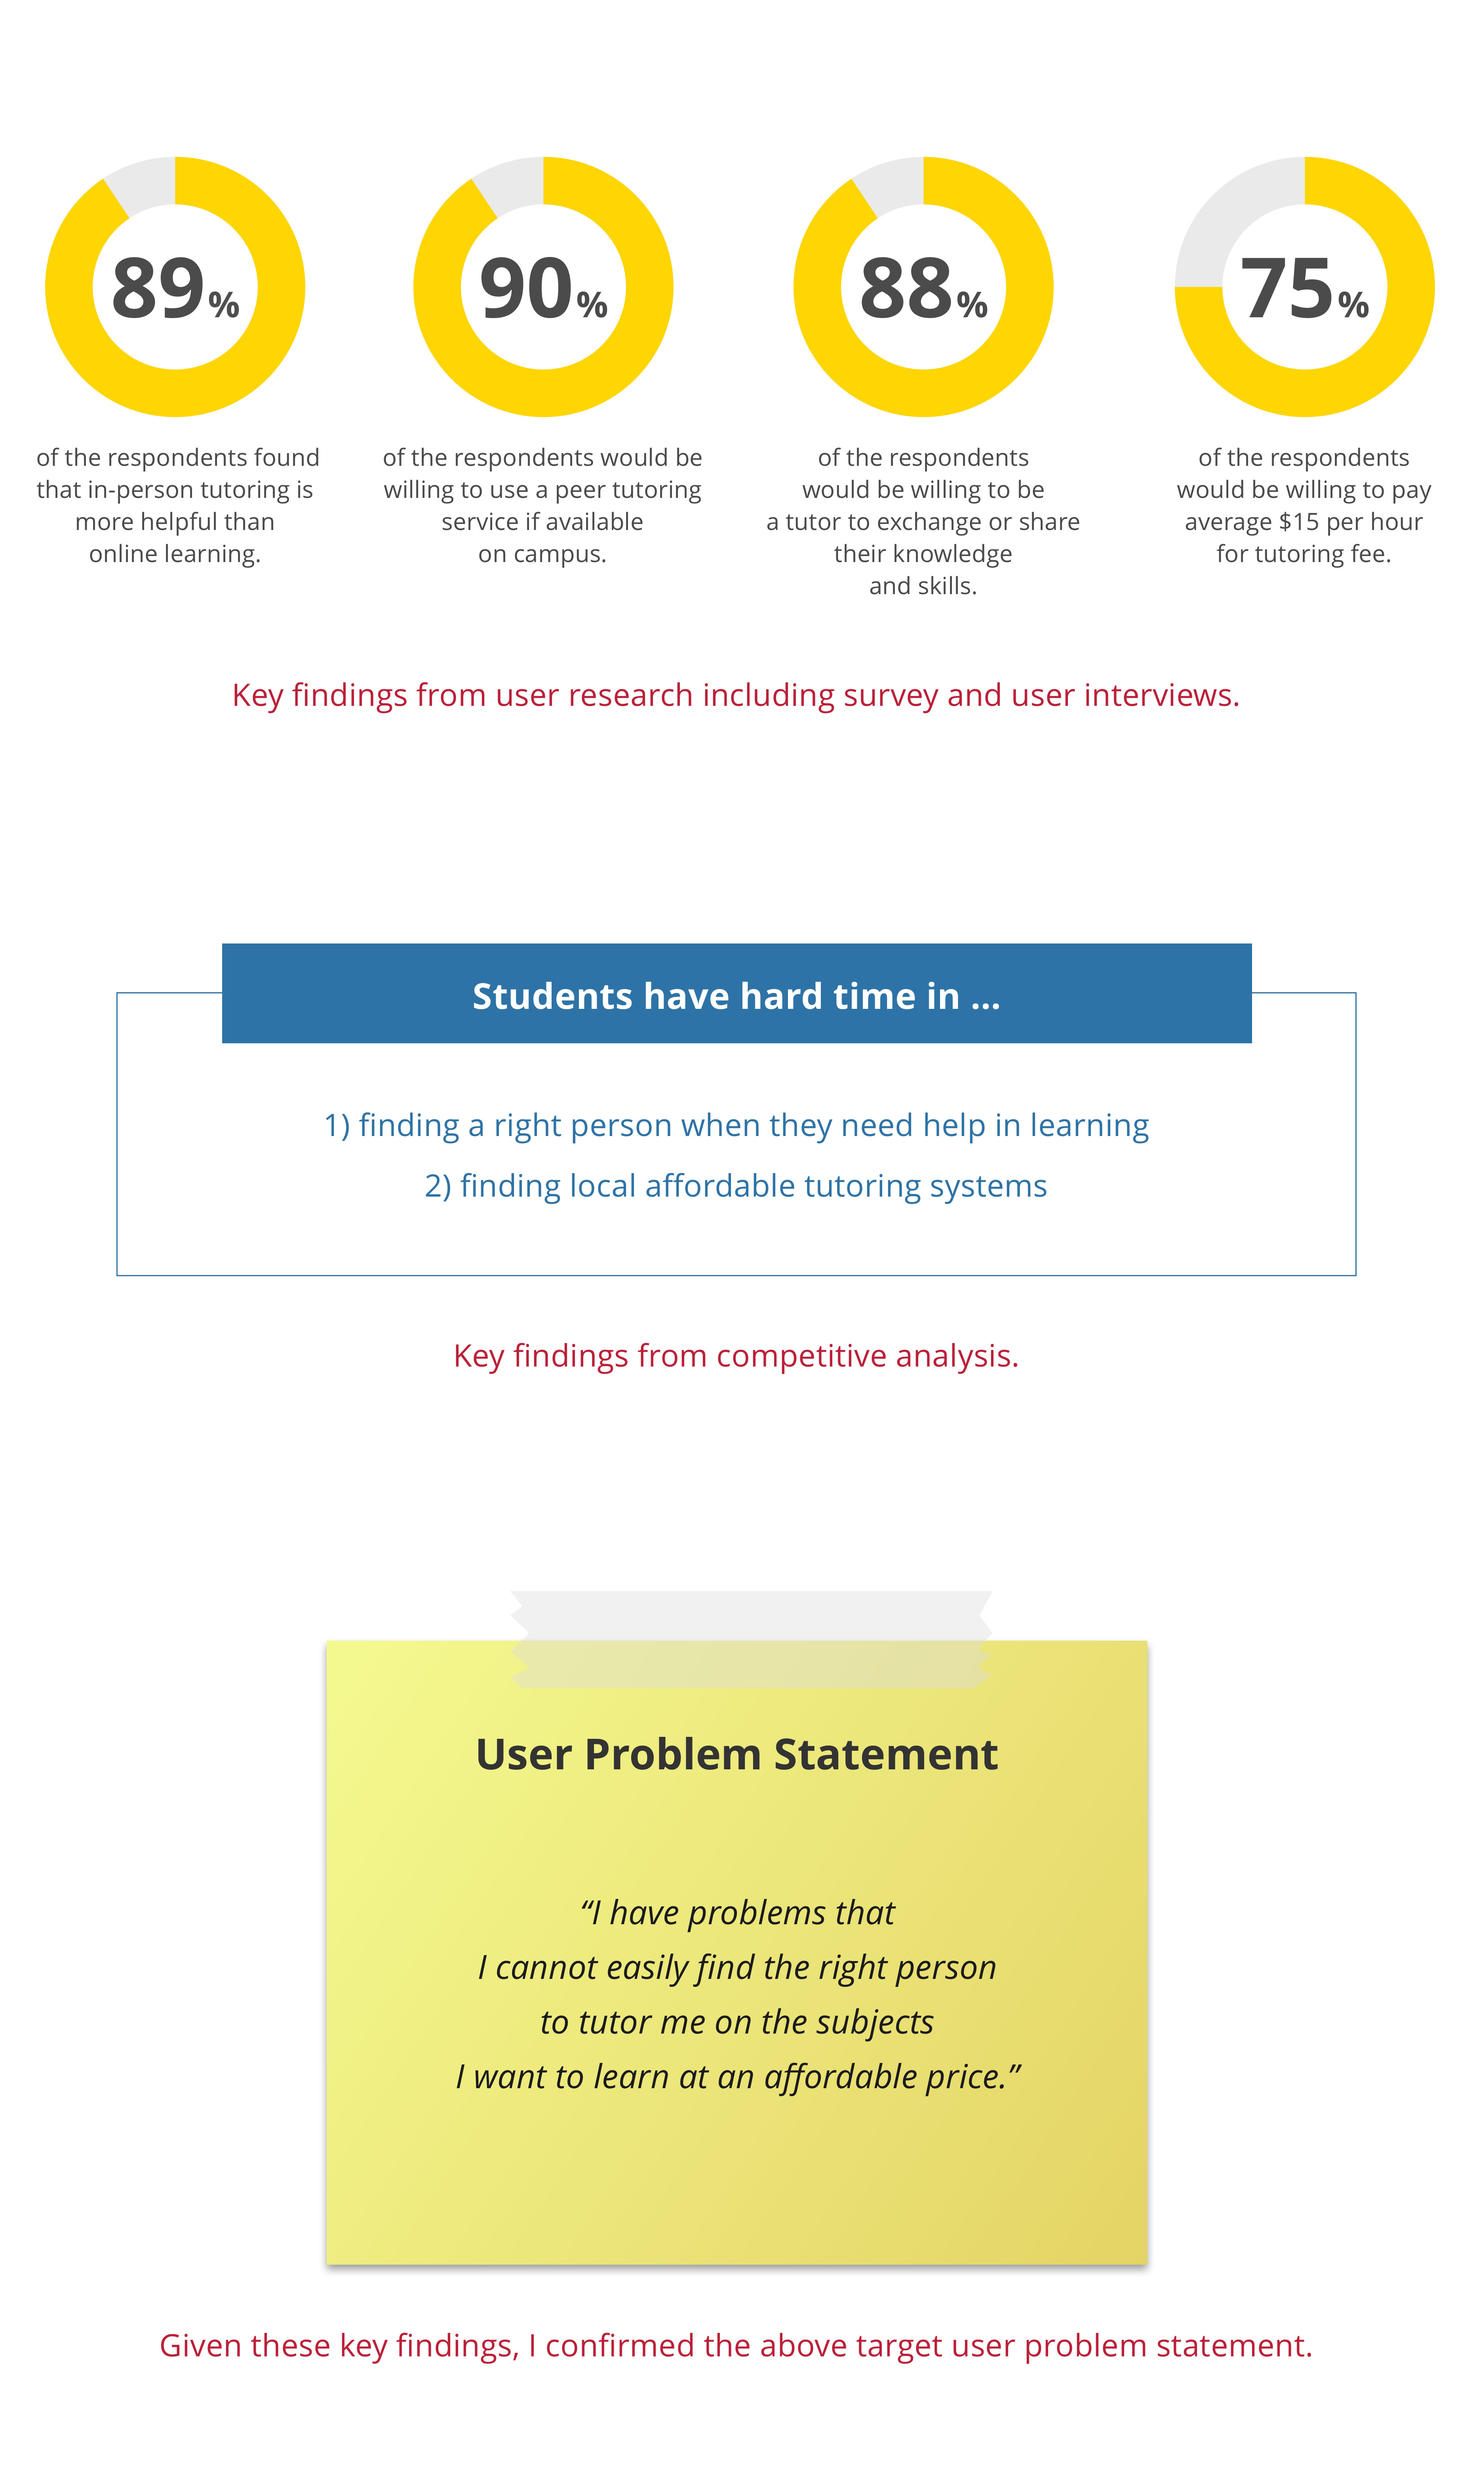
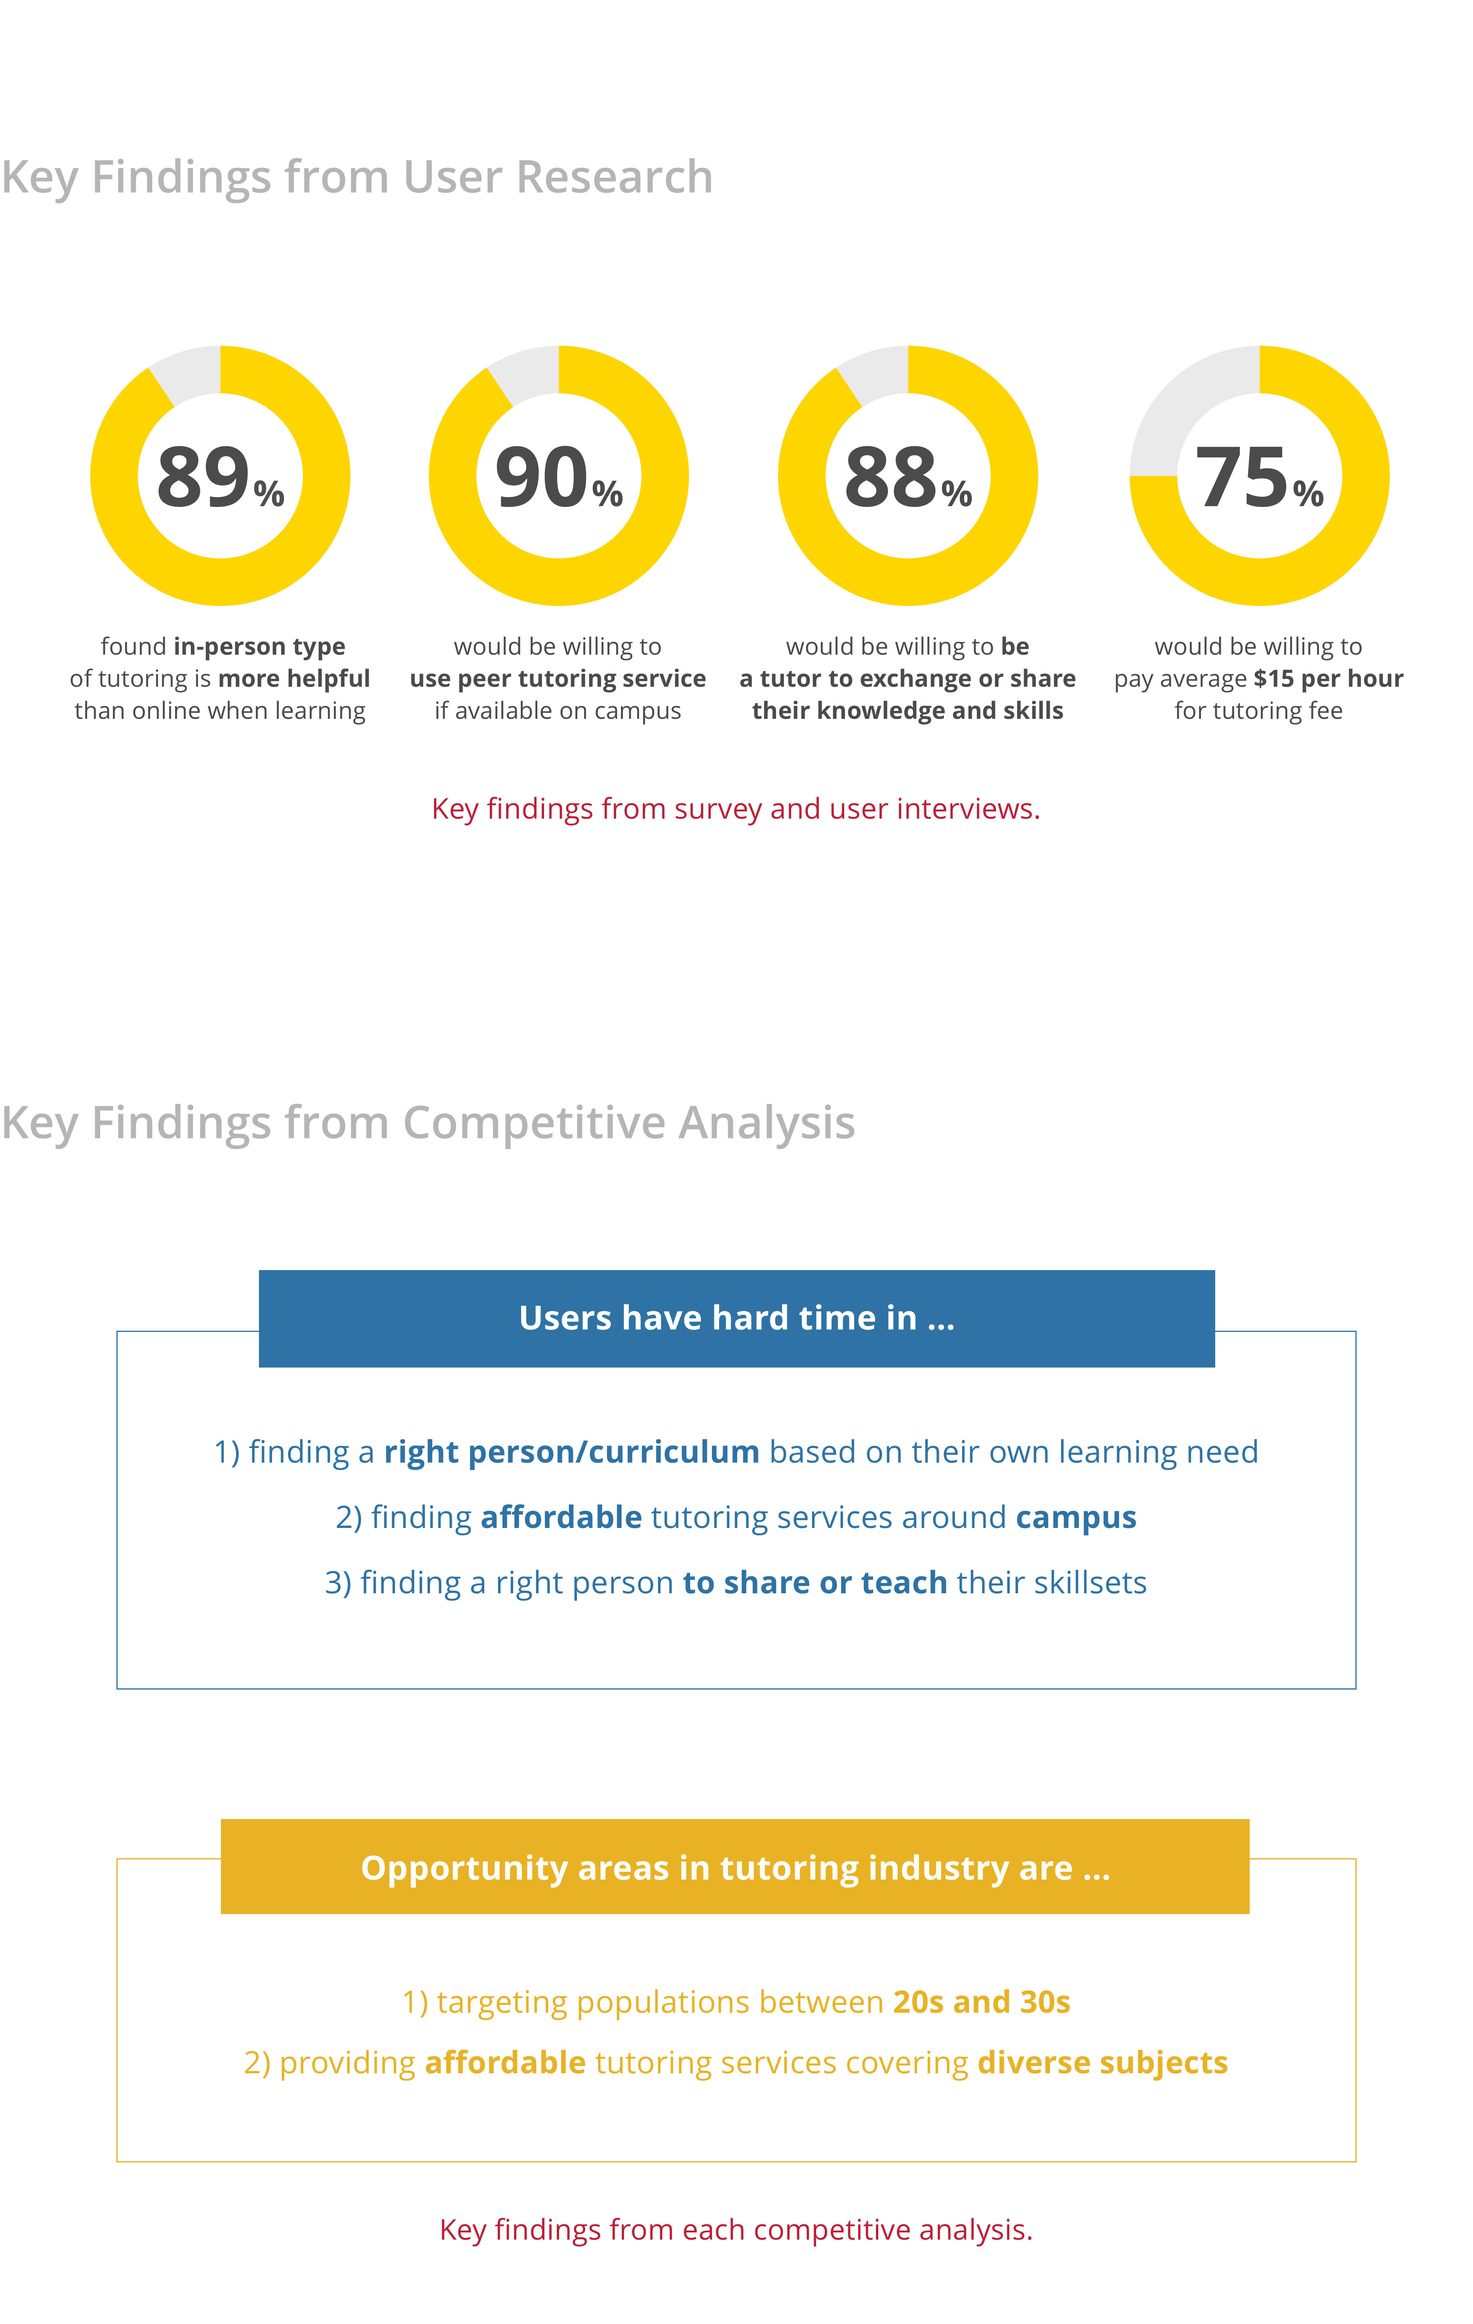
Earn and Learn 1st part

diff --git a/earn_learn.html b/earn_learn.html
@@ -67,7 +67,8 @@
         <br><br>One day, when I was having difficulties figuring out how to solve my website coding issues,
          I thought, ‘Since we have so many intelligent students from such a wide range of disciplines, <span
           class="bold">what if I could
-          have a peer helping me out on the specific problems that I’m having?’, and then ‘What if UM
+          have a peer helping me out on the specific problems that I’m having?’ </span>, 
+          and then <span class="bold">‘What if UM
           students
           could exchange knowledge and skills according to their learning needs?’</span>
 
@@ -79,11 +80,11 @@
           resources or could not find a right person to work on their problems with them.</span>
 
 
-        <br><br>Based on tailored research, I finally created “Earn & Learn” , an application that connects UM students
+        <br><br>Based on tailored research, I finally created <span class="bold">“Earn & Learn”</span>, an application that connects UM students
         based on
         individual needs for learning. Learning subjects could be anything from courseworks to technical skills, and
-        students
-        can be both a tutor and tutee. 
+        <span class="bold">students
+        can be both a tutor and tutee.</span>
         <!-- The application was presented at the final presentation during the class, and
         <span class="bold">received
           an “A” in overall evaluation</span>. -->
@@ -109,7 +110,7 @@
       <p>
         I followed the user-centered approach as below:
         <figure>
-          <img class="rwd-img" src="el_contents/approach.png" width="100%" height="auto" alt="">
+          <img class="rwd-img" src="el_contents/approach.jpg" width="100%" height="auto" alt="">
           <!-- <figcaption class="figcaption">User Scenario explaining how users can achieve their goals through the
             service.</figcaption> -->
         </figure>
@@ -121,7 +122,7 @@
           artwork, but <span class="bold">all about problem-solving</span>. UX Designer always should think <span class="bold">'am I really solving my users’ problems?'..."</span>
           </span>
 
-          <br><br>That was powerful advice for me, so I tried my very best to keep her words in mind as I approached each stage of problem-solving.
+          <br><br>That was powerful advice for me that I tried my very best to keep her words in mind as I approached each stage of problem-solving.
 
       </p>
     </section>
@@ -130,7 +131,7 @@
       <p>
       In this stage, I conducted <span class="bold">user research</span> and <span class="bold">competitive analysis</span> to frame the problem.
       
-      <br><br>For user research, I utilized methods of <span class="bold">survey, contextual inquiry, and user interviews</span>.
+      <br><br>For user research, I utilized methods of <span class="bold">survey </span> and <span class="bold">user interviews</span>.
       
       <br><br>For competitive analysis, I took a critical look at existing solutions within my context and analyzed 
       <span class="bold">their pros and cons</span> in respect to supporting my target activity.
@@ -139,23 +140,26 @@
       
       </p>
       <figure>
-        <img class="rwd-img" src="el_contents/survey.png" alt="">
-        <figcaption class="figcaption"> Survey with 60+ UM students & alumni.</figcaption>
-        <img class="rwd-img image-selector" src="el_contents/competitive_analysis_1.jpg" alt="">
-        <figcaption class="figcaption"> Competitive analysis for key players in the industry.</figcaption>
-        <img class="rwd-img image-selector" src="el_contents/competitive_analysis_2.jpg" alt="">
-        <figcaption class="figcaption"> Competitive analysis for UM tutoring systems.</figcaption>
+        <img class="rwd-img" src="el_contents/survey.jpg" alt="">
+        <!-- <figcaption class="figcaption"> Survey with 60+ UM students & alumni.</figcaption> -->
+        <img class="rwd-img" src="el_contents/interviews.jpg" alt="">
+        <!-- <figcaption class="figcaption"> User interviews with 4 people.</figcaption> -->
+        <img class="rwd-img" src="el_contents/competitive_analysis.jpg" alt="">
+        
       </figure>
     </section>
     <section class="process">
       <h2>Key Findings & Problem Statement </h2>
       <p>
         Combining data from user research and competitive analysis,
-        I organized <span>key findings</span> and finally wrote a <span class="bold">problem statement</span>.
+        I organized <span class="bold">key findings</span> and finally wrote a <span class="bold">problem statement</span>.
       </p>
       <!-- <p>Before delving into next phase, I found 3 important key findings based on previous phase.</p> -->
       <figure>
         <img class="rwd-img" src="el_contents/key_findings.jpg" alt="">
+      </figure>
+      <figure>
+        <img class="rwd-img" src="el_contents/problem_statement.jpg" alt="">
       </figure>
     </section>
     <section class="process">
@@ -282,20 +286,23 @@
       Next: Route Creator UX/UI Project
     </a>
   </article>
-  <footer class="footer">
-    <address>
-      <!-- <a class="email" href="mailto:ezshin@umich.edu">ezshin@umich.edu</a>
-       <a class="Resume" target="_blank" href="resume/aprilshin_resume_sep18.pdf">     ㆍ  Resume </a>
-       <a class="linkedin" target="_blank" href="https://www.linkedin.com/in/aprileshin/">     ㆍ  Linkedin </a> -->
-      <!-- <a class="medium" target="_blank" href="#">   ㆍ  Medium  </a> -->
-      <!-- Add font awesome icons -->
-      <a target="_blank" href="https://dribbble.com/april_e_shin" class="fa fa-dribbble"></a>
-      <a target="_blank" href="https://medium.com/@ezzyy04" class="fa fa-medium"></a>
-      <a target="_blank" href="https://www.linkedin.com/in/aprileshin/" class="fa fa-linkedin"></a>
-      <a target="_blank" href="mailto:ezshin@umich.edu" class="fa fa-google"></a>
-    </address>
-    <small class="copyright">Designed and Coded by &copy;2018 April Shin.</small>
-  </footer>
+  
+    <footer class="footer">
+    
+      <address>
+        <!-- <a class="email" href="mailto:ezshin@umich.edu">ezshin@umich.edu</a>
+         <a class="Resume" target="_blank" href="resume/aprilshin_resume_sep18.pdf">     ㆍ  Resume </a>
+         <a class="linkedin" target="_blank" href="https://www.linkedin.com/in/aprileshin/">     ㆍ  Linkedin </a> -->
+        <!-- <a class="medium" target="_blank" href="#">   ㆍ  Medium  </a> -->
+        <!-- Add font awesome icons -->
+        <a target="_blank" href="https://dribbble.com/april_e_shin" class="fa fa-dribbble"></a>
+        <a target="_blank" href="https://medium.com/@ezzyy04" class="fa fa-medium"></a>
+        <a target="_blank" href="https://www.linkedin.com/in/aprileshin/" class="fa fa-linkedin"></a>
+        <a target="_blank" href="mailto:ezshin@umich.edu" class="fa fa-google"></a>
+      </address>
+      <small class="copyright">&copy; 2018 Designed & Coded by April Shin.</small>
+    </footer>
+    
   <script>$('.image-selector').lightzoom({
       glassSize: 200, zoomPower: 1.8
     });</script>

diff --git a/css/earn_learn.css b/css/earn_learn.css
@@ -192,59 +192,63 @@ body {
 
 /* 공통 Footer */
 .footer {
-  background: #fff;
+  background: #414145;
   padding: 30px;
   /* display: flex;
   flex-direction: column;
   flex-wrap: wrap;
   justify-content: center;
   align-items: center; */
-  color: #acacac;
+  color: #fff;
   text-align: center;
   font-family: "Montserrat", sans-serif;
 }
 .copyright {
   display: block;
   font-family: "Montserrat", sans-serif;
+  text-align: center;
 }
 
 /* Style all font awesome icons */
 .fa {
-  padding: 10px;
+  margin: 20px;
   font-size: 200px;
-  width: 38px;
+  width: 1px;
   text-align: center;
   text-decoration: none;
   border-radius: 50%;
-  margin-bottom: 6px;
+  margin-bottom: 1px;
 }
 
 /* Add a hover effect if you want */
 .fa:hover {
-  opacity: 0.7;
+  opacity: 0.6;
 }
 
 /* Set a specific color for each brand */
 
 /* Dribbble */
 .fa-dribbble {
-  background: #c42261;
+  background: #414145;
+  /* background: #C42261; */
   color: white;
 }
 
 /* LinkedIn */
 .fa-linkedin {
-  background: #0077b5;
+  background: #414145;
+  /* background: #0077b5; */
   color: white;
 }
 /* Medium */
 .fa-medium {
-  background: #333;
+  background: #414145;
   color: white;
 }
 /* Google */
 .fa-google {
-  background: #ea4335;
+  background: #414145;
+  /* background: #ea4335; */
   color: white;
 }
 
@@ -364,21 +368,21 @@ body {
     line-height: 25px;
     font-family: "Open Sans", sans-serif;
   }
-  .next {
+.next {
     position: static;
     display: block;
     margin: 50px;
     padding: 20px;
-    border: 2px solid #acacac;
+    border: 1px solid #bd2a3b;
     transition: all 500ms;
     /* font-family: "Open Sans", sans-serif; */
     font-family: "Montserrat", sans-serif;
     font-weight: 600;
     background: #fff;
-    color: #acacac;
+    color: #bd2a3b;
   }
   .next:hover {
-    background: #acacac;
+    background: #bd2a3b;
     color: #fff;
   }
 
@@ -395,8 +399,8 @@ body {
   }
   .copyright {
     width: 100%;
-    font-size: 14px;
-    margin-top: 5px;
+    font-size: 10px;
+    margin-top: 10px;
   }
 }
 /* 데스크탑 */
@@ -411,12 +415,12 @@ body {
   }
   .nav-portfolio {
     margin-right: 30px;
-    font-size: 17px;
+    font-size: 16px;
     color: #333;
     letter-spacing: 0.3px;
   }
   .nav-about {
-    font-size: 17px;
+    font-size: 16px;
   }
   .route-creator-title {
     font-size: 30px;
@@ -542,31 +546,32 @@ body {
     line-height: 29px;
     font-family: "Open Sans", sans-serif;
   }
-  .next {
+ .next {
     position: absolute;
     right: 90px;
     bottom: 100px;
     padding: 30px 100px;
-    border: 2px solid #acacac;
+    border: 1px solid #bd2a3b;
     transition: all 500ms;
     /* font-family: "Open Sans", sans-serif; */
     font-family: "Montserrat", sans-serif;
     font-weight: 700;
     background: #fff;
-    color: #acacac;
+    color: #bd2a3b;
   }
   .next:hover {
-    background: #acacac;
+    background: #bd2a3b;
     color: #fff;
   }
-
-  .footer {
-    font-size: 18px;
+   .footer {
+    font-size: 22px;
     margin-top: 50px;
-    margin-bottom: 40px;
+    font-weight: 200;
   }
   .copyright {
     width: 100%;
-    margin-top: 10px;
+    font-size: 13px;
+    margin-top: 25px;
+    text-align: center;
   }
 }

diff --git a/route_creator.html b/route_creator.html
@@ -169,9 +169,16 @@
           maps </span>to <span class="bold">identify my target users and users’ problems.</span>
       </p>
       <figure>
-        <img class="rwd-img" src="rc_contents/define_user_matrix.jpg" alt="">
+        <a href="rc_contents/define_user_matrix.jpg">
+          <img class="rwd-img" src="rc_contents/define_user_matrix.jpg" alt="">
+        </a>
         <figcaption class="figcaption">Utilized user segmentation matrix to define target users and persona.</figcaption>
+        <a href="rc_contents/define_persona.jpg">
         <img class="rwd-img" src="rc_contents/define_persona.jpg" alt="">
+        </a>
+
+
+        
         <img class="rwd-img" src="rc_contents/define_user_problems.jpg" alt="">
       </figure>
     </section>

diff --git a/css/route_creator.css b/css/route_creator.css
@@ -448,8 +448,8 @@ body {
     margin: 0 auto;
   }
   .route h1 {
-    font-size: 52px;
-    font-weight: 400;
+    font-size: 48px;
+    font-weight: 500;
     padding-top: 150px;
     margin-left: 23px;
     line-height: 1.3;
@@ -490,6 +490,7 @@ body {
     color: #bd2a3b;
     margin: 100px 0px 50px 0px;
     font-family: "PT Serif", serif;
+    /* font-family: 'Montserrat', sans-serif; */
   }
   .overview p {
     font-size: 16px;
